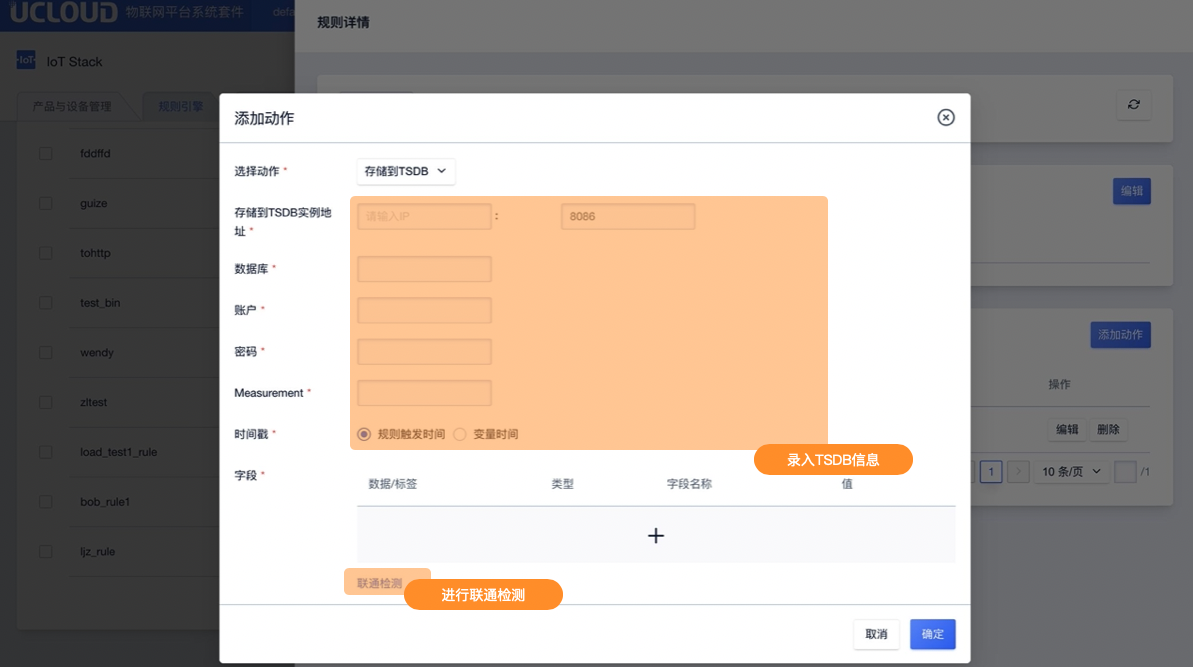
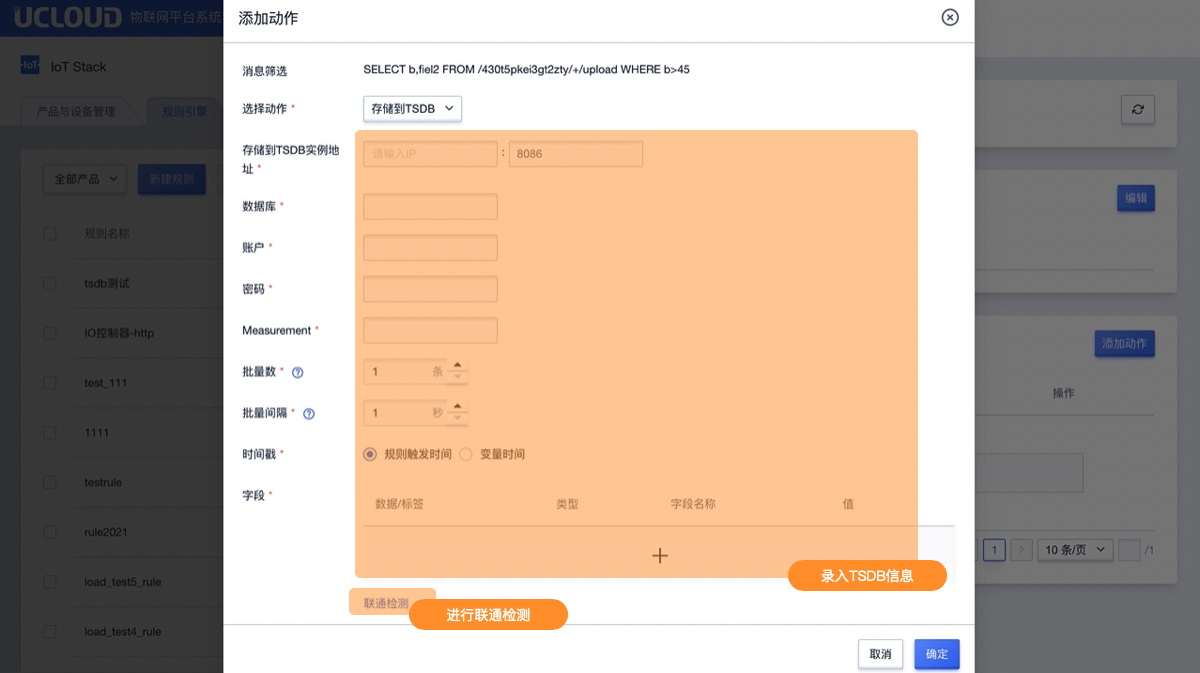
add_docs

diff --git a/控制台操作指南/网关管理/设备驱动/设备驱动概览.md b/控制台操作指南/网关管理/设备驱动/设备驱动概览.md
@@ -6,6 +6,8 @@
 
 IoT平台提供设备驱动SDK，用户可以基于该SDK开发不同协议的设备驱动，目前官方提供Modbus 驱动
 
+
+
 ## 驱动框架支持情况
 
 IoT Edge子设备驱动SDK支持Python3和C语言。
@@ -13,6 +15,10 @@ IoT Edge子设备驱动SDK支持Python3和C语言。
 | 官方驱动          | 自定义驱动                  |
 | ----------------- | --------------------------- |
 | Modbus（Python3） | 基于Python3驱动 SDK进行开发 |
+
+注：在Docker模式下如需直接访问驱动可在iotedge网桥下直接访问drv-{驱动名称}
+
+
 
 ## 子设备接入流程
 

diff --git a/控制台操作指南/规则引擎/添加动作/存储到TSDB.md b/控制台操作指南/规则引擎/添加动作/存储到TSDB.md
@@ -19,6 +19,8 @@
 - 密码：TSDB的登录密码；
 - 数据库：转存的TSDB数据库；
 - Measurement ：转存的TSDB的Measurement名字；
+- 批量数：一次批量插入的最大数量，范围1-10000（默认为1）；
+- 批量间隔：一次批量插入的最大间隔范围1-60（默认为1）；
 - 时间戳：Unix时间戳；
   - 规则触发时间：指写入记录时使用该条规则触发的时间作为该记录的时间戳；
   - 变量时间：指以变量的值作为该条就的时间戳，变量名为timestamp则表示为${timestamp}；

diff --git a/_sidebar.md b/_sidebar.md
@@ -60,7 +60,7 @@
       * [操作指南](/uiot-stack/控制台操作指南/网关管理/本地控制台操作指南/操作指南)
   * [监控视图](/uiot-stack/控制台操作指南/监控视图)
   * [日志管理](/uiot-stack/控制台操作指南/日志管理)
-* IoT平台API列表
+* 平台API列表
   * [API调用规范及示例](/uiot-stack/IoT平台开发指南/API调用规范及示例)
   * [API列表](/uiot-stack/IoT平台开发指南/API列表)
   * [产品及设备管理](/uiot-stack/IoT平台开发指南/产品及设备管理)

diff --git a/控制台操作指南/网关管理/本地应用/本地应用概览.md b/控制台操作指南/网关管理/本地应用/本地应用概览.md
@@ -16,6 +16,7 @@
 - 本地应用处理流程，当本地应用收到消息路由发送的数据时，由本地应用决定如何处理该数据；
 - 本地应用里发布消息，通过调用应用函数SDK的`publish`接口实现；
 - 本地应用目前支持C、Python语言；
+- 在Docker模式下如需直接访问应用，可在iotedge网桥下直接访问app-{应用名称}；
 
 ## 本地应用添加流程
 
